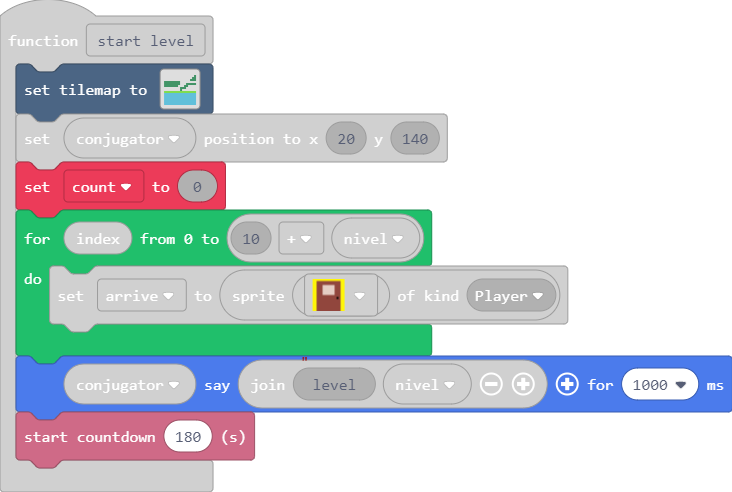
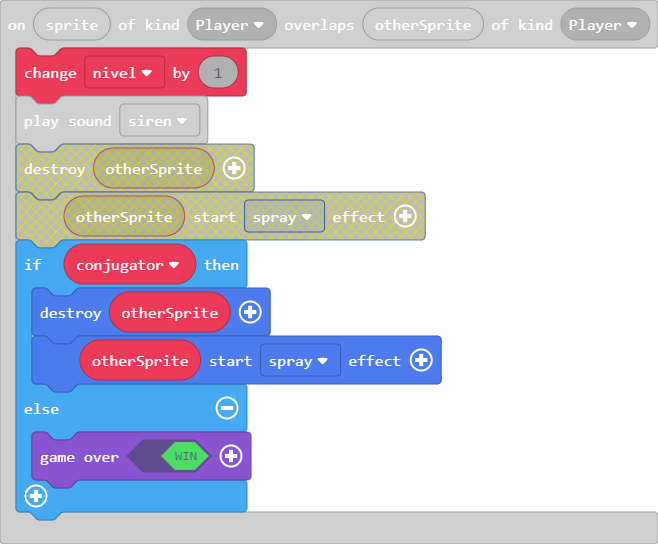
Update main.blocks, main.ts

diff --git a/main.ts b/main.ts
@@ -288,10 +288,14 @@ scene.onOverlapTile(SpriteKind.Player, myTiles.tile2, function (sprite, location
     start_level()
 })
 sprites.onOverlap(SpriteKind.Player, SpriteKind.Player, function (sprite, otherSprite) {
-    count += 1
+    nivel += 1
     music.siren.play()
-    otherSprite.destroy()
-    otherSprite.startEffect(effects.spray)
+    if (conjugator) {
+        otherSprite.destroy()
+        otherSprite.startEffect(effects.spray)
+    } else {
+        game.over(true)
+    }
 })
 scene.onOverlapTile(SpriteKind.Player, sprites.builtin.crowd4, function (sprite, location) {
     conjugator.say("¡Cuidado!", 5000)
